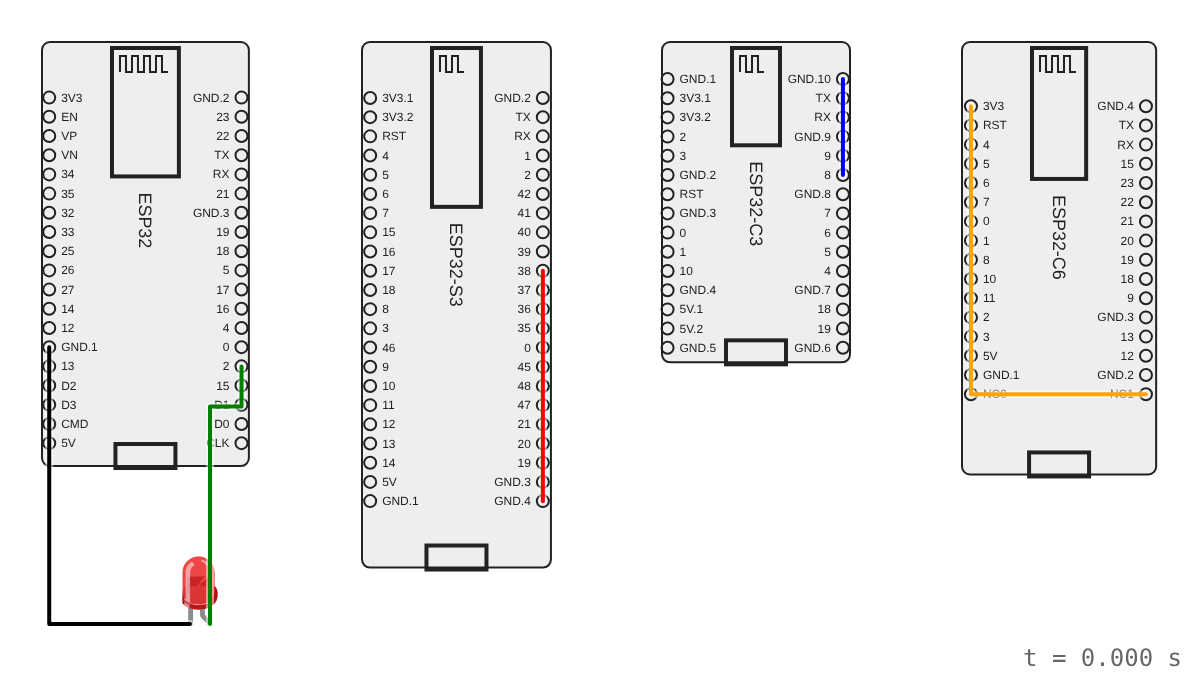
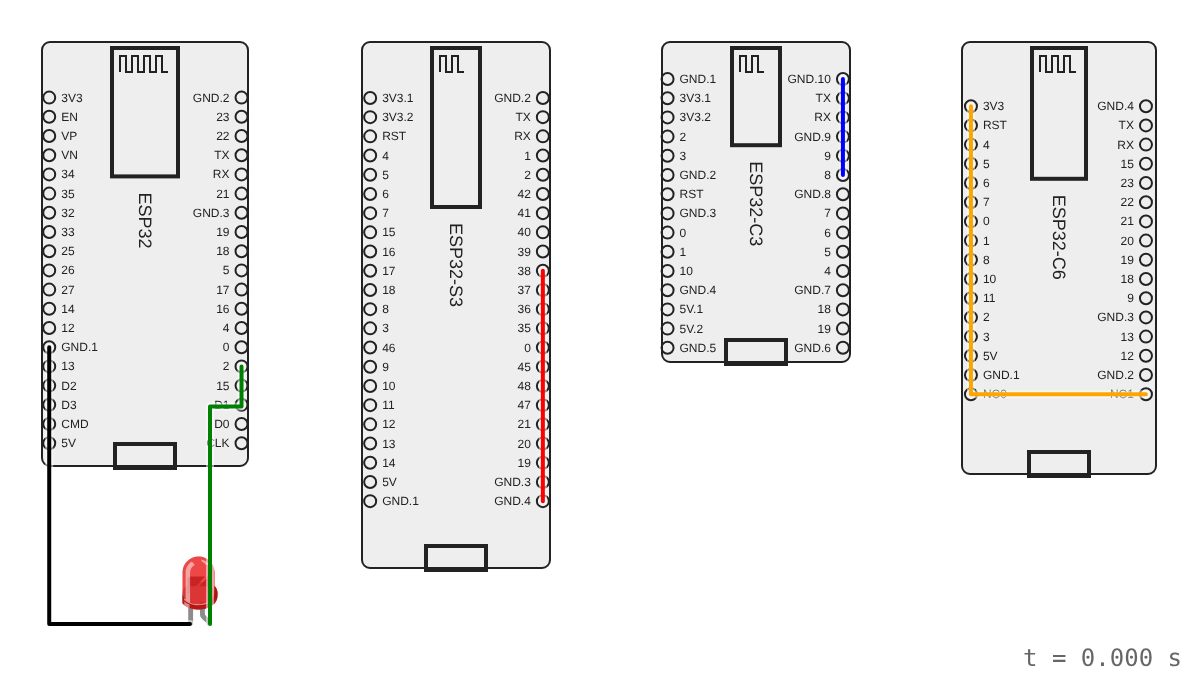
Keep board sizes whole and name the pin source
Claude-Session: https://claude.ai/code/session_01Vyp3qE5aZ75cVYAkLXiHBy

Changed region(s): [[0.3706, 0.2779, 0.4015, 0.3088], [0.3397, 0.8029, 0.3706, 0.8338]]

diff --git a/render/src/parts.js b/render/src/parts.js
@@ -19,8 +19,9 @@ const PITCH = 2.54;
 /**
  * Returns a simple drawing of a devkit board with two pin headers.
  *
- * Sizes and pin positions are in mm and match Wokwi's boards, so that
- * diagrams made in Wokwi keep their wires. The drawing is our own.
+ * Sizes and pin positions are in mm and come from the board.json files in
+ * github.com/wokwi/wokwi-boards, so that diagrams made in Wokwi keep their
+ * wires. The drawing is our own.
  *
  * @param {{chip: string, width: number, height: number,
  *     left: !Array, right: !Array}} spec Each header is [x, y, ...names],
@@ -29,12 +30,14 @@ const PITCH = 2.54;
  */
 function board({chip, width, height, left, right}) {
   const px = (mm) => +(mm * MM).toFixed(2);
-  const w = px(width);
-  const h = px(height);
+  // Whole pixels, because the renderer reads the size with offsetWidth and
+  // rotates around the center.
+  const w = Math.round(width * MM);
+  const h = Math.round(height * MM);
   const pins = [];
   let pads = '';
-  for (const [[x, y, ...names], anchor, dx] of
-      [[left, 'start', 6], [right, 'end', -6]]) {
+  // Each pin name goes on the inner side of its pad.
+  const header = ([x, y, ...names], anchor, dx) => {
     names.forEach((name, i) => {
       const [cx, cy] = [px(x), px(y + i * PITCH)];
       pins.push([name, cx, cy]);
@@ -42,13 +45,15 @@ function board({chip, width, height, left, right}) {
         <text class="pin" x="${cx + dx}" y="${cy + 2}"
             text-anchor="${anchor}">${name}</text>`;
     });
-  }
+  };
+  header(left, 'start', 6);
+  header(right, 'end', -6);
   // The module sits between the two columns of pin names, with a meander
   // antenna at its top. The chip name runs down the board below it.
   const mx = 36;
   const mw = w - 2 * mx;
   const mh = +(h * 0.3).toFixed(2);
-  const antenna = 'v-8h3v8h3'.repeat(Math.floor((mw - 8) / 6));
+  const antenna = 'v-8h3v8h3'.repeat(Math.max(0, (mw - 8) / 6));
   return {
     width: w,
     height: h,
